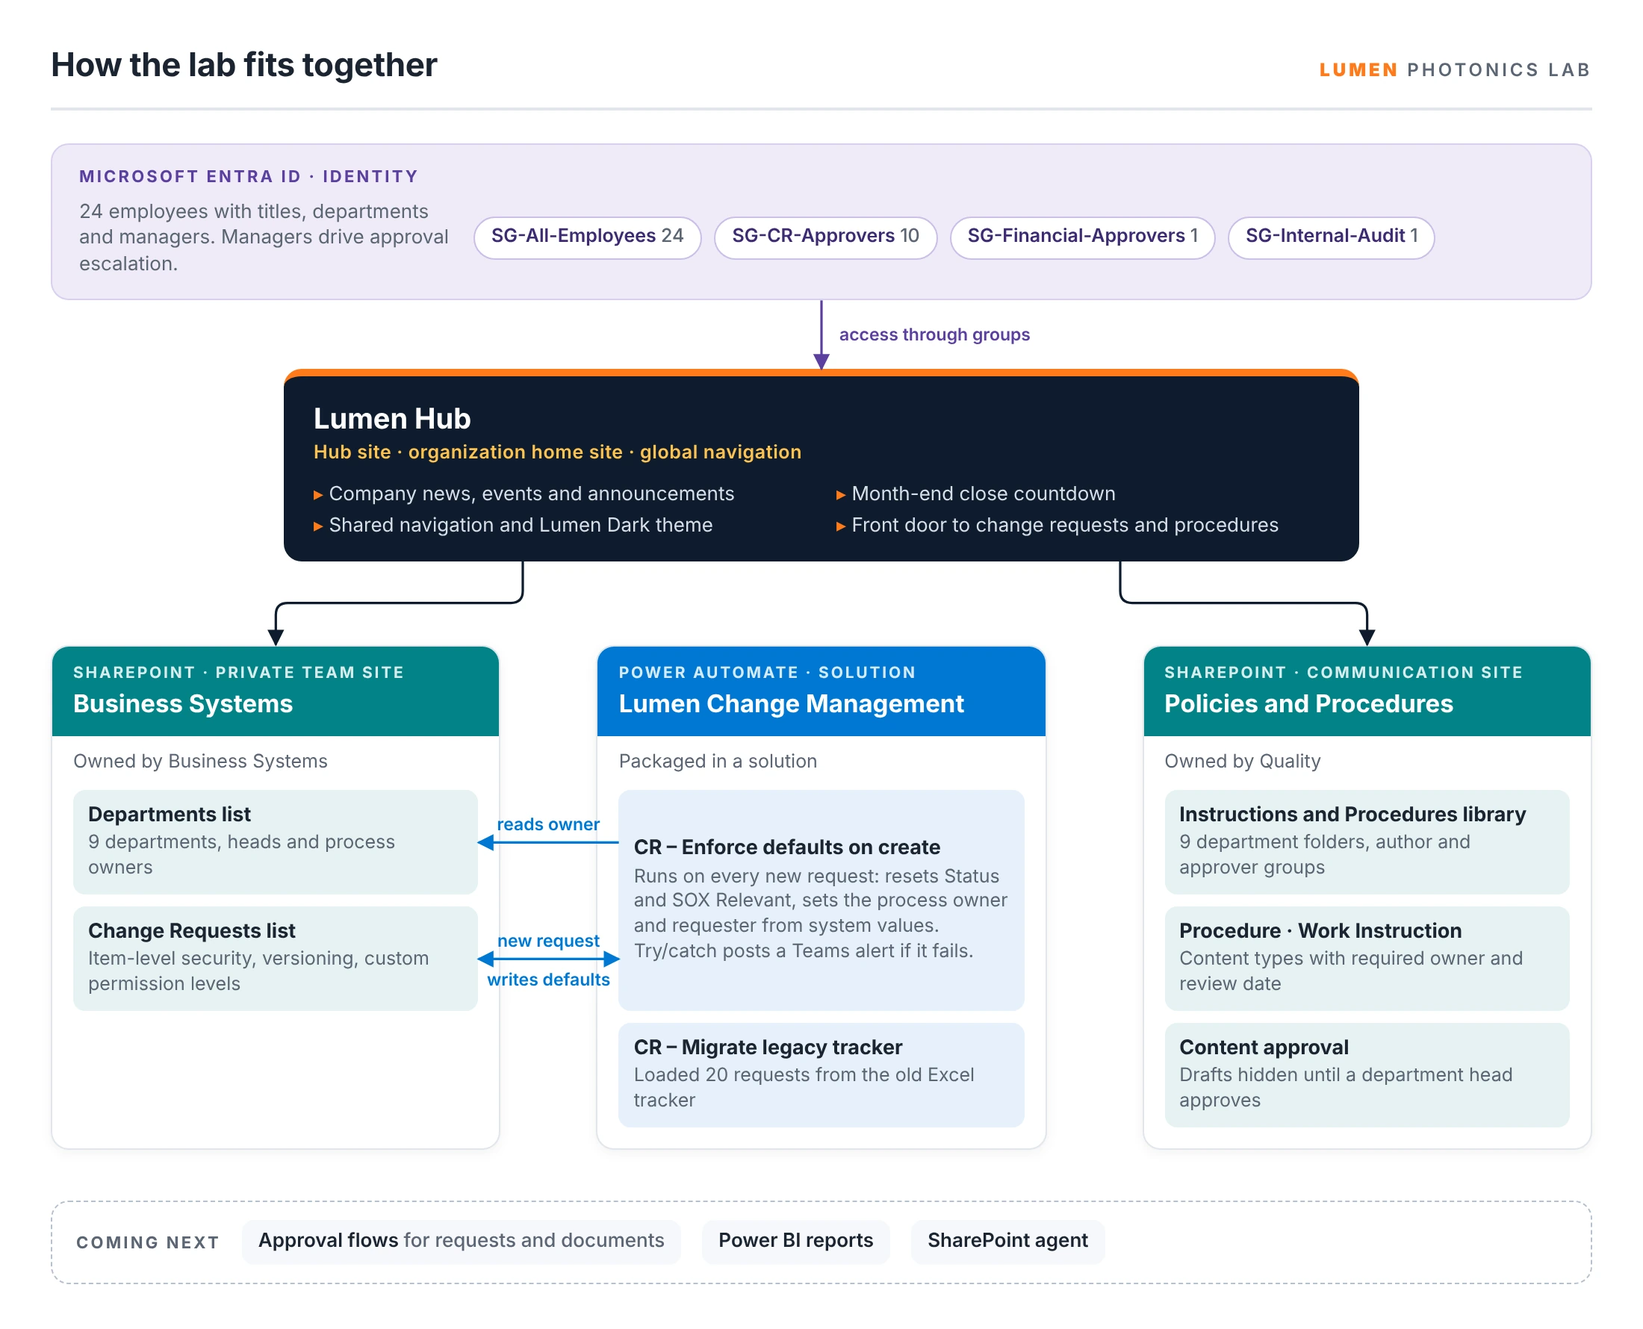
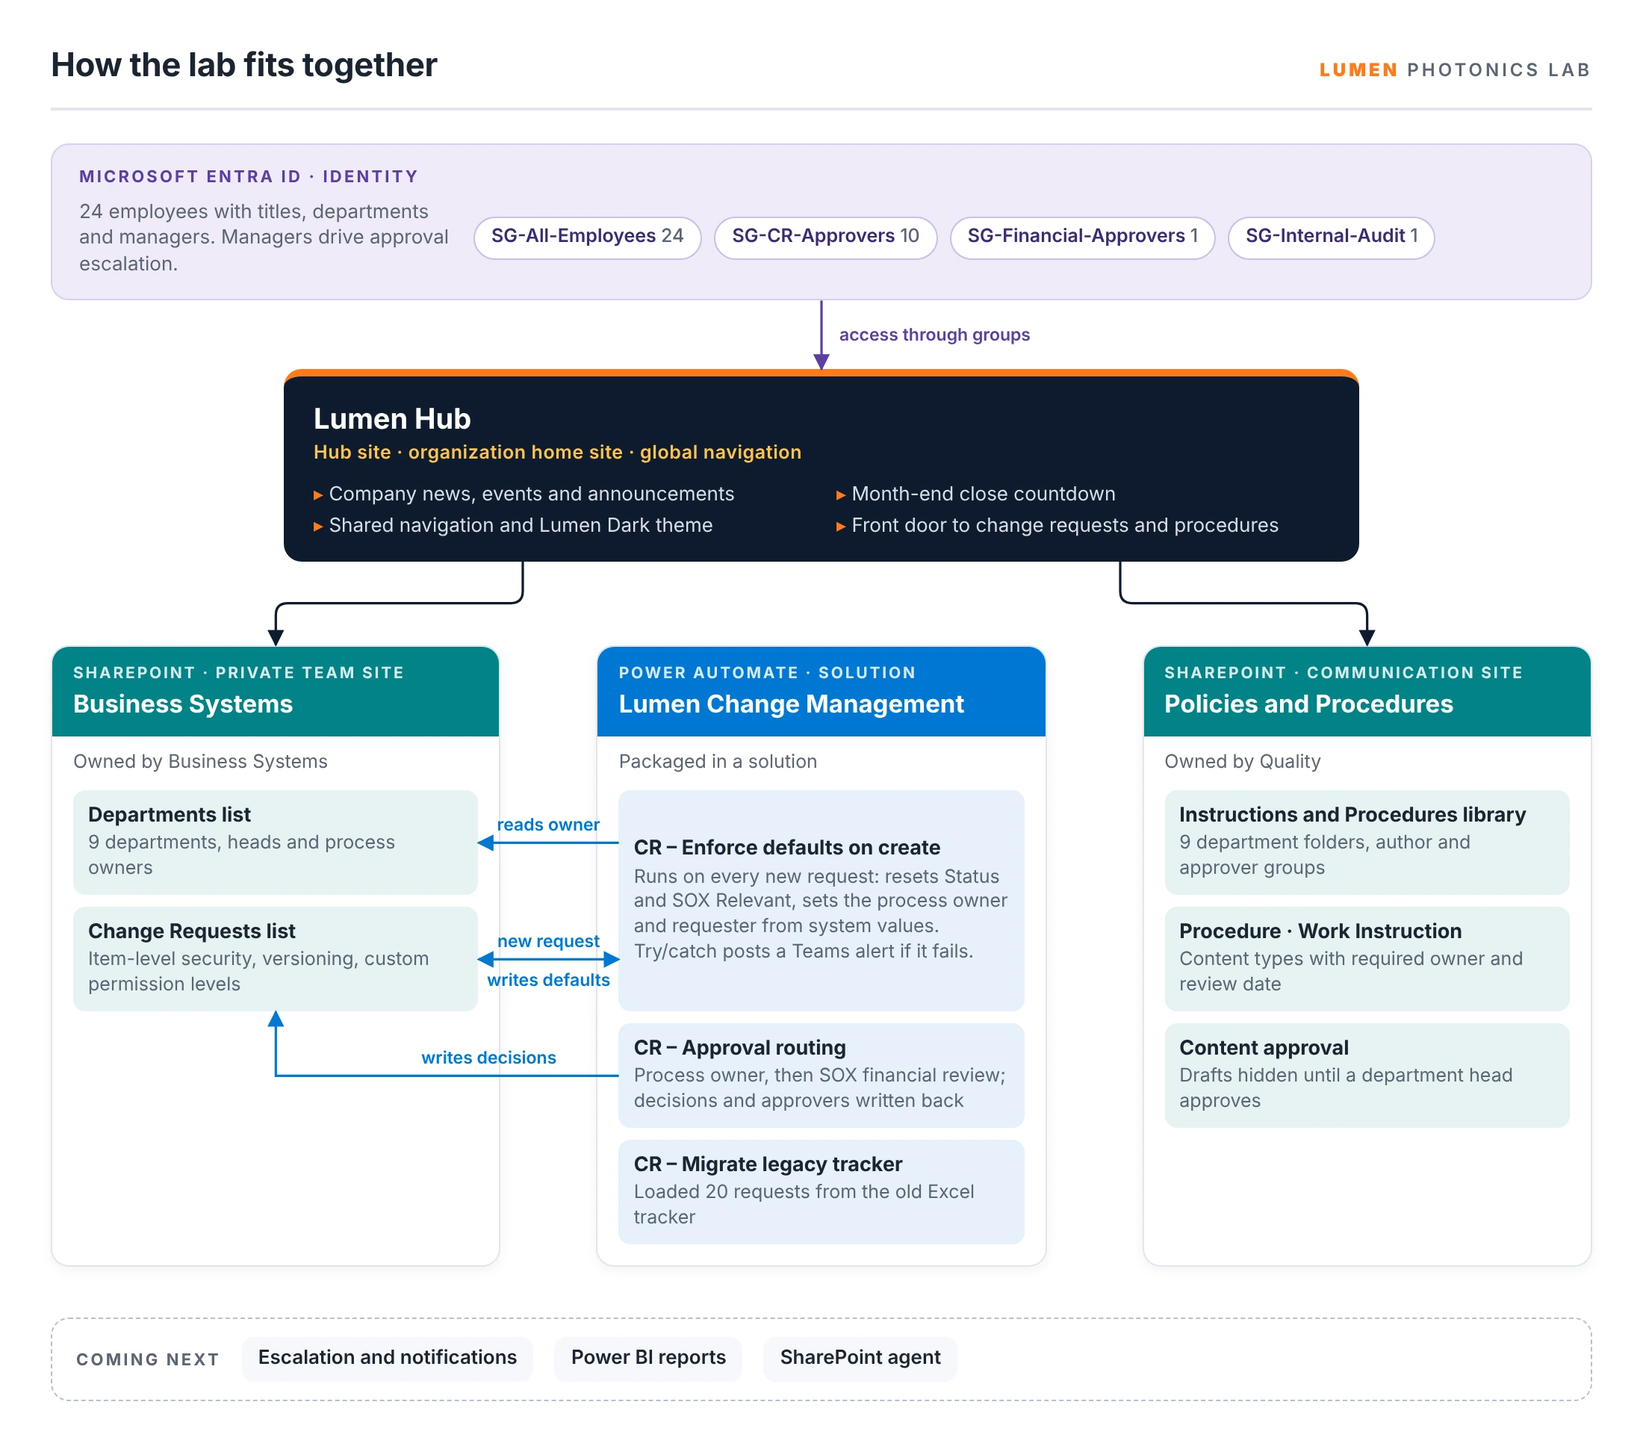
Add Approval Routing page to the Lumen lab
Two-stage change request approval routed by role: process owner from
the Departments list, SOX financial review from an Entra group, and a
manager fallback for conflicts. Covers the trigger condition, recorded
decisions, the end-to-end test and what testing found. Architecture and
access diagrams updated for the new flow; linked as part 6.

Claude-Session: https://claude.ai/code/session_01JgCapmMqgQbZKPpPFQPxG5

diff --git a/power-automate_ApprovalRouting.html b/power-automate_ApprovalRouting.html
@@ -1,0 +1,136 @@
+<!DOCTYPE html>
+<html lang="en">
+<head>
+    <meta charset="UTF-8">
+    <meta name="viewport" content="width=device-width">
+    <title>Change Request Approval Routing - Neil Javier</title>
+    <link rel="stylesheet" type="text/css" href="./css/main.css">
+</head>
+
+<body class="Background no-image-hover SP_Page">
+
+    <div class="Navbar">
+        <a href="index.html">Home</a>
+        <a class="active" href="projects.html">Projects</a>
+    </div>
+
+    <div class="Project_Page">
+        <h1>Change Request Approval Routing: Process Owner and SOX Review</h1>
+        <p class="SP_Lead">Power Automate · Approvals · SOX change control · Lumen Photonics lab</p>
+        <div class="SP_Callout">
+            <p class="SP_Callout_Label">Approach highlighted</p>
+            <p><strong>Routing by role, not by name.</strong> Every approver is looked up from data (the Departments list, an Entra group and the manager chain), so an org change never requires editing the flow, and <strong>segregation of duties is built into who gets asked</strong>.</p>
+        </div>
+        <p>
+            <strong>Project Summary</strong><br>
+            Every change request at Lumen needs the department's process owner to approve it, and changes that touch the financial statements also need a financial review before anything is configured in Dynamics 365 Finance &amp; Operations. This flow routes each request to the right people, records each decision and who made it, and writes the outcome back to the request.
+        </p>
+        <div class="SP_Table_Wrap">
+            <table class="SP_Table">
+                <tr><th>Step</th><th>Who approves</th><th>Where the flow finds them</th></tr>
+                <tr><td>1. Process owner</td><td>The owner of the requesting department's process</td><td>The Process Owner column on the Departments list, set on the request by the enforcement flow</td></tr>
+                <tr><td>2. Financial review (SOX relevant only)</td><td>The Controller</td><td>Membership of the SG-Financial-Approvers Entra group</td></tr>
+                <tr><td>Conflict</td><td>The financial approver's manager</td><td>Entra manager attribute, used if the financial approver requested the change or already approved it as process owner</td></tr>
+            </table>
+        </div>
+        <div class="SP_Figure_Pair">
+            <figure class="SP_Figure">
+            <img src="./media/images/sharepoint/appr-flow-top.webp" alt="Flow trigger, Set In Review, Process owner approval and a condition that records a rejection or continues to the SOX check" width="852" height="521" loading="lazy">
+            <figcaption>Process owner approval. A rejection is recorded and the flow ends.</figcaption>
+        </figure>
+            <figure class="SP_Figure">
+            <img src="./media/images/sharepoint/appr-flow-sox.webp" alt="SOX branch: get the financial approver's manager, choose the financial approver, start the financial approval and record approval or rejection" width="774" height="521" loading="lazy">
+            <figcaption>The SOX branch resolves the financial approver, asks them and records the outcome.</figcaption>
+        </figure>
+        </div>
+        <p>
+            <strong>Starting at the Right Moment</strong><br>
+            Two flows act on a new request. The enforcement flow sets the process owner, so the approval flow must not start until that has happened, and it must start only once even though it updates the same request it triggers on. A trigger condition handles both: the flow runs only when the request is Submitted, has a process owner and has no decision yet. Its first action sets the status to In Review, so none of its own later updates match the condition again.
+        </p>
+        <pre class="SP_Code"><code>@and(
+    equals(triggerBody()?[&#x27;Status&#x27;]?[&#x27;Value&#x27;], &#x27;Submitted&#x27;),
+    not(empty(triggerBody()?[&#x27;ProcessOwner&#x27;])),
+    equals(triggerBody()?[&#x27;ProcessOwnerDecision&#x27;]?[&#x27;Value&#x27;], &#x27;Pending&#x27;)
+)</code></pre>
+        <figure class="SP_Figure">
+            <img src="./media/images/sharepoint/appr-trigger-condition.webp" alt="Trigger settings panel with the trigger condition" width="496" height="496" loading="lazy">
+            <figcaption>The condition lives in the trigger's settings, so non-matching changes never start a run.</figcaption>
+        </figure>
+        <p>
+            <strong>Choosing the Financial Approver</strong><br>
+            The financial approver comes from group membership, so changing who reviews SOX changes is a group change in Entra, not a flow edit. The conflict rule keeps one person from approving twice or approving their own request:
+        </p>
+        <pre class="SP_Code"><code>// Normally the group member; their manager if they requested the change
+// or already approved it as process owner
+if(or(equals(toLower(member), toLower(requesterEmail)),
+      equals(toLower(member), toLower(processOwnerEmail))),
+   managerEmail,
+   member)</code></pre>
+        <p>
+            Approvals are sent with reassignment turned off, because a one-click handoff to anyone would bypass the routing. Each approval links straight to the request, since approvers can't browse to the list.
+        </p>
+        <figure class="SP_Figure">
+            <img src="./media/images/sharepoint/appr-financial-email.webp" alt="SOX financial review approval email for change request 26, requested for Priya Nair, with a link to open the change request" width="624" height="398" loading="lazy">
+            <figcaption>The Controller's SOX financial review, requested on behalf of the person who submitted the change. Addresses are blurred.</figcaption>
+        </figure>
+        <p>
+            <strong>Recording Who Decided</strong><br>
+            SharePoint's own approval features don't record who approved. The flow appends a line to an append-only Approval Comments column for every decision, with the approver's name, the time in Pacific time and their comment, and sets the Financial Approver column.
+        </p>
+        <pre class="SP_Code"><code>concat(&#x27;Financial approver &#x27;,
+       first(outputs(&#x27;Financial_approval&#x27;)?[&#x27;body/responses&#x27;])?[&#x27;responder&#x27;]?[&#x27;displayName&#x27;],
+       &#x27; approved on &#x27;,
+       convertFromUtc(utcNow(), &#x27;Pacific Standard Time&#x27;, &#x27;MM/dd/yyyy h:mm tt&#x27;),
+       &#x27;: &#x27;,
+       coalesce(first(outputs(&#x27;Financial_approval&#x27;)?[&#x27;body/responses&#x27;])?[&#x27;comments&#x27;], &#x27;No comment&#x27;))</code></pre>
+        <p>
+            Two rules apply to every update the flow makes. SOX Relevant always passes through from the request, because the designer fills it with a default and a hard-coded Yes would silently undo a triage decision. And a decision is never written back to Pending once it has been made.
+        </p>
+        <p>
+            <strong>Testing It End to End</strong><br>
+            A cost accountant submitted a Finance change request. The enforcement flow set the CFO as process owner, the CFO approved, and the flow sent the SOX review to the Controller, who approved. The request finished Approved, with both decisions and the financial approver recorded.
+        </p>
+        <figure class="SP_Figure">
+            <img src="./media/images/sharepoint/appr-row-left.webp" alt="Change request row: status Approved, department Finance, SOX relevant, process owner Sandra Whitfield, process owner decision Approved, financial approver Grace Lin" width="1195" height="157" loading="lazy">
+        </figure>
+        <figure class="SP_Figure">
+            <img src="./media/images/sharepoint/appr-row-right.webp" alt="The same row continued: financial decision Approved, system D365 F&amp;O, site HQ, priority High, requester Priya Nair" width="1069" height="120" loading="lazy">
+            <figcaption>The finished request, shown as two halves of one row.</figcaption>
+        </figure>
+        <p>
+            Version history tells the whole story: the requester submits, the enforcement flow sets the process owner and requester, the approval flow moves it to In Review, the CFO approves, and the Controller's approval releases it. The first run failed after the CFO approved because of a typo in a condition; the history shows the fix and the restart, because nothing is hidden.
+        </p>
+        <figure class="SP_Figure">
+            <img src="./media/images/sharepoint/appr-version-history.webp" alt="Version history from submission through process owner approval, a restart, and financial approval to Approved" width="939" height="342" loading="lazy">
+            <figcaption>Every step of request 26, from submission to approval.</figcaption>
+        </figure>
+        <p>
+            <strong>What Testing Found, and What's Next</strong>
+        </p>
+        <ul class="SP_List">
+            <li><strong>A failed run left the request stuck in review, silently.</strong> The enforcement flow already has a try/catch with a Teams alert; this flow needs the same.</li>
+            <li><strong>The process owner's email was missing the requester and the link.</strong> Those two fields hadn't saved on the first approval action; the financial approval had them.</li>
+            <li><strong>Requesters aren't told the outcome yet.</strong> A notification at the end of each path is next.</li>
+            <li><strong>No escalation yet.</strong> Approvals left for two business days should go to the approver's manager, with a fallback for people who have no manager.</li>
+            <li><strong>It runs on a personal connection.</strong> In production it would use a service account through the solution's connection reference.</li>
+        </ul>
+        <p>
+            <strong>Skills Demonstrated</strong><br>
+            Power Automate approvals, trigger conditions, multi-stage approval routing, nested conditions, Office 365 Groups and Users connectors, workflow expressions, SharePoint list updates, SOX-aligned segregation of duties, end-to-end testing as multiple users, and reading version history as an audit trail.
+        </p>
+        <p><strong>More from the Lumen Photonics lab</strong></p>
+        <div class="SP_Nav">
+            <a href="lumen_AtAGlance.html">Lab at a Glance</a>
+            <a href="sharepoint_LumenPhotonicsData.html">Building the Test Company</a>
+            <a href="sharepoint_ChangeRequestControls.html">Change Request Controls</a>
+            <a href="sharepoint_LumenHub.html">Lumen Hub Intranet</a>
+            <a href="power-automate_ChangeRequestEnforcement.html">Change Request Enforcement</a>
+            <a href="sharepoint_DocumentControl.html">Document Control</a>
+        </div>
+
+        <p><a href="projects.html">Back to Projects</a></p>
+
+    </div>
+
+</body>
+</html>

diff --git a/lumen_AtAGlance.html b/lumen_AtAGlance.html
@@ -28,7 +28,7 @@
             <div><b>3</b><span>SharePoint sites</span></div>
             <div><b>4</b><span>custom permission levels</span></div>
             <div><b>12</b><span>access groups</span></div>
-            <div><b>2</b><span>Power Automate flows</span></div>
+            <div><b>3</b><span>Power Automate flows</span></div>
             <div><b>9</b><span>departments</span></div>
         </div>
 
@@ -38,7 +38,7 @@
         </p>
 
         <figure class="SP_Figure">
-            <a href="./media/images/lumen/lumen-architecture.webp"><img src="./media/images/lumen/lumen-architecture.webp" alt="Lab architecture: Entra ID groups grant access; Lumen Hub is the hub and home site; associated sites Business Systems (Departments and Change Requests lists) and Policies and Procedures (Instructions and Procedures library); a Power Automate solution with an enforcement flow and a migration flow; coming next: approval flows, Power BI reports and a SharePoint agent" width="1100" height="890" loading="lazy"></a>
+            <a href="./media/images/lumen/lumen-architecture.webp"><img src="./media/images/lumen/lumen-architecture.webp" alt="Lab architecture: Entra ID groups grant access; Lumen Hub is the hub and home site; associated sites Business Systems (Departments and Change Requests lists) and Policies and Procedures (Instructions and Procedures library); a Power Automate solution with an enforcement flow and a migration flow; coming next: approval flows, Power BI reports and a SharePoint agent" width="1100" height="968" loading="lazy"></a>
             <figcaption>How the pieces connect. Identity lives in Entra ID, Lumen Hub is the front door, and each department-owned site carries its own permissions. Select any diagram to open it full size.</figcaption>
         </figure>
 
@@ -54,6 +54,7 @@
                 <tr><td>3</td><td><a href="sharepoint_LumenHub.html">Lumen Hub</a></td><td>A hub and home site that gives every employee one front door, without opening private sites</td><td>SharePoint</td></tr>
                 <tr><td>4</td><td><a href="power-automate_ChangeRequestEnforcement.html">Change Request Enforcement</a></td><td>A flow that resets protected fields on every request, with try/catch alerts so the control can't fail silently</td><td>Power Automate</td></tr>
                 <tr><td>5</td><td><a href="sharepoint_DocumentControl.html">Document Control</a></td><td>ISO-style procedures and work instructions: content types, approval before release, drafts hidden from operators</td><td>SharePoint</td></tr>
+                <tr><td>6</td><td><a href="power-automate_ApprovalRouting.html">Change Request Approval Routing</a></td><td>Two-stage approval routed by role, with SOX financial review and segregation-of-duties checks</td><td>Power Automate</td></tr>
             </table>
         </div>
 
@@ -64,7 +65,7 @@
 
         <figure class="SP_Figure">
             <a href="./media/images/lumen/lumen-access.webp"><img src="./media/images/lumen/lumen-access.webp" alt="Access matrix for the Change Requests list and the Instructions and Procedures library: each group's permission level and whether it can see, add, edit, approve and delete" width="1100" height="826" loading="lazy"></a>
-            <figcaption>Who can do what, including the known gaps. Approvals move into flows next, and retention will stop controlled records from being deleted.</figcaption>
+            <figcaption>Who can do what, including the known gaps. Change requests are now approved through a flow; retention will stop controlled records from being deleted.</figcaption>
         </figure>
 
         <p>
@@ -90,6 +91,7 @@
             <a href="sharepoint_LumenHub.html">Lumen Hub Intranet</a>
             <a href="power-automate_ChangeRequestEnforcement.html">Change Request Enforcement</a>
             <a href="sharepoint_DocumentControl.html">Document Control</a>
+            <a href="power-automate_ApprovalRouting.html">Approval Routing</a>
         </div>
 
         <p><a href="projects.html">Back to Projects</a></p>

diff --git a/projects.html b/projects.html
@@ -28,7 +28,7 @@
 
             <section class="Lab_Section" id="lumen-lab">
                 <h2>Lumen Photonics Lab</h2>
-                <p class="Lab_Intro">One project in five parts, with a one-page summary to start from. Lumen Photonics is a fictional fiber laser manufacturer I built in a Microsoft 365 test tenant to practice SharePoint administration, Power Automate and SOX-aligned change control, the way an ERP business systems team would run them.</p>
+                <p class="Lab_Intro">One project in six parts, with a one-page summary to start from. Lumen Photonics is a fictional fiber laser manufacturer I built in a Microsoft 365 test tenant to practice SharePoint administration, Power Automate and SOX-aligned change control, the way an ERP business systems team would run them.</p>
                 <div class="Lab_Feature">
                     <p><a class="project-button lumen-link" href="lumen_AtAGlance.html"><span class="Lab_Title">Lumen Photonics Lab at a Glance: Architecture, Roles and Access</span><span class="Lab_Tag">Start here</span></a></p>
                 </div>
@@ -38,6 +38,7 @@
                     <p><a class="project-button sharepoint-link" href="sharepoint_LumenHub.html"><span class="Lab_Step">3</span><span class="Lab_Title">Lumen Hub: Intranet and Live Plant Status Board</span><span class="Lab_Tag">SharePoint</span></a></p>
                     <p><a class="project-button power-automate-link" href="power-automate_ChangeRequestEnforcement.html"><span class="Lab_Step">4</span><span class="Lab_Title">Change Request Enforcement: Flow Controls and Failure Alerts</span><span class="Lab_Tag">Power Automate</span></a></p>
                     <p><a class="project-button sharepoint-link" href="sharepoint_DocumentControl.html"><span class="Lab_Step">5</span><span class="Lab_Title">Document Control: ISO Procedures and Work Instructions</span><span class="Lab_Tag">SharePoint</span></a></p>
+                    <p><a class="project-button power-automate-link" href="power-automate_ApprovalRouting.html"><span class="Lab_Step">6</span><span class="Lab_Title">Change Request Approval Routing: Process Owner and SOX Review</span><span class="Lab_Tag">Power Automate</span></a></p>
                 </div>
             </section>
 

diff --git a/sharepoint_LumenPhotonicsData.html b/sharepoint_LumenPhotonicsData.html
@@ -147,6 +147,7 @@ if(equals(items(&#x27;Apply_to_each&#x27;)?[&#x27;SOXRelevant&#x27;], &#x27;No&#
             <a href="sharepoint_LumenHub.html">Lumen Hub Intranet</a>
             <a href="power-automate_ChangeRequestEnforcement.html">Change Request Enforcement</a>
             <a href="sharepoint_DocumentControl.html">Document Control</a>
+            <a href="power-automate_ApprovalRouting.html">Approval Routing</a>
         </div>
 
         <p><a href="projects.html">Back to Projects</a></p>

diff --git a/power-automate_ChangeRequestEnforcement.html b/power-automate_ChangeRequestEnforcement.html
@@ -116,6 +116,7 @@ concat(&#x27;https://make.powerautomate.com/environments/&#x27;, workflow()?[&#x
             <a href="sharepoint_ChangeRequestControls.html">Change Request Controls</a>
             <a href="sharepoint_LumenHub.html">Lumen Hub Intranet</a>
             <a href="sharepoint_DocumentControl.html">Document Control</a>
+            <a href="power-automate_ApprovalRouting.html">Approval Routing</a>
         </div>
 
         <p><a href="projects.html">Back to Projects</a></p>

diff --git a/sharepoint_LumenHub.html b/sharepoint_LumenHub.html
@@ -151,6 +151,7 @@
             <a href="sharepoint_ChangeRequestControls.html">Change Request Controls</a>
             <a href="power-automate_ChangeRequestEnforcement.html">Change Request Enforcement</a>
             <a href="sharepoint_DocumentControl.html">Document Control</a>
+            <a href="power-automate_ApprovalRouting.html">Approval Routing</a>
         </div>
 
         <p><a href="projects.html">Back to Projects</a></p>

diff --git a/sharepoint_DocumentControl.html b/sharepoint_DocumentControl.html
@@ -135,6 +135,7 @@
             <a href="sharepoint_ChangeRequestControls.html">Change Request Controls</a>
             <a href="sharepoint_LumenHub.html">Lumen Hub Intranet</a>
             <a href="power-automate_ChangeRequestEnforcement.html">Change Request Enforcement</a>
+            <a href="power-automate_ApprovalRouting.html">Approval Routing</a>
         </div>
 
         <p><a href="projects.html">Back to Projects</a></p>

diff --git a/sharepoint_ChangeRequestControls.html b/sharepoint_ChangeRequestControls.html
@@ -136,6 +136,7 @@
             <a href="sharepoint_LumenHub.html">Lumen Hub Intranet</a>
             <a href="power-automate_ChangeRequestEnforcement.html">Change Request Enforcement</a>
             <a href="sharepoint_DocumentControl.html">Document Control</a>
+            <a href="power-automate_ApprovalRouting.html">Approval Routing</a>
         </div>
 
         <p><a href="projects.html">Back to Projects</a></p>
